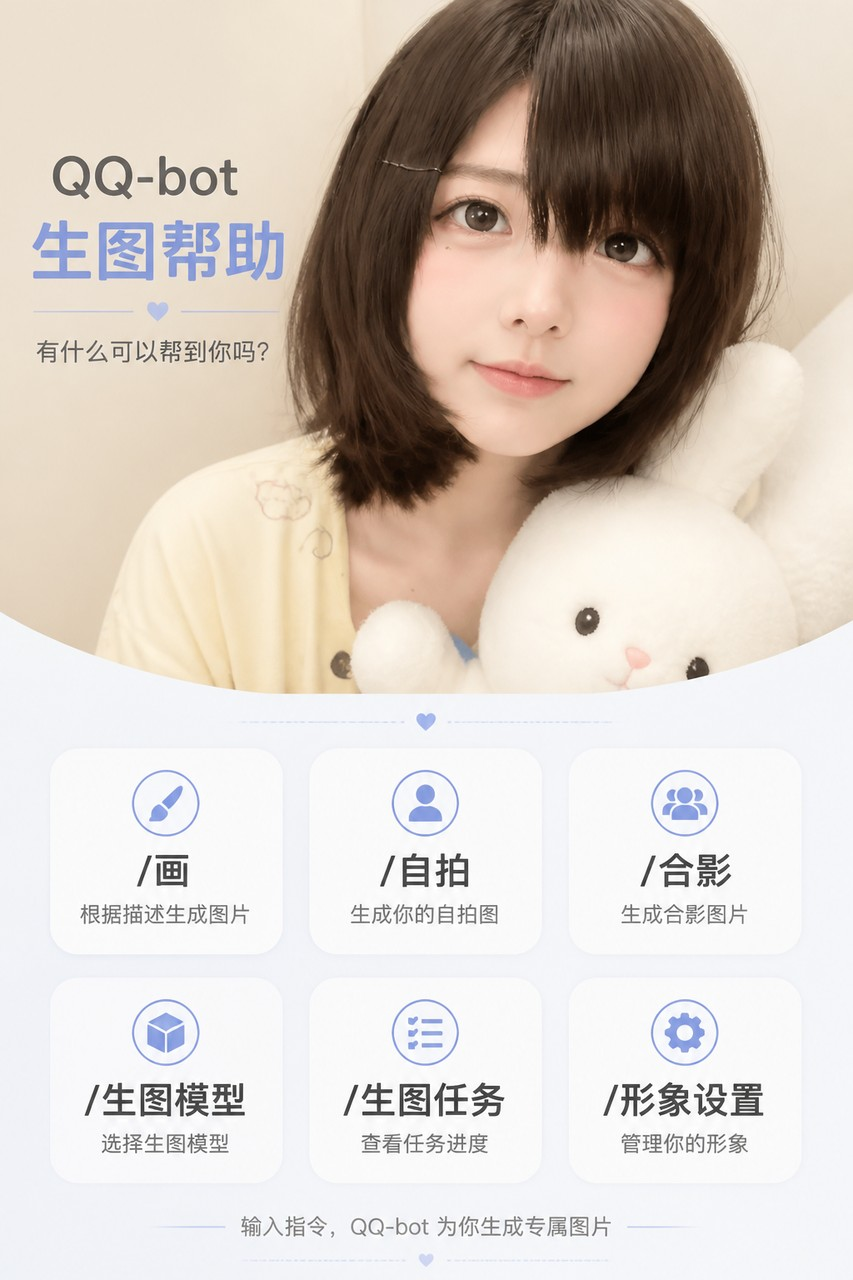
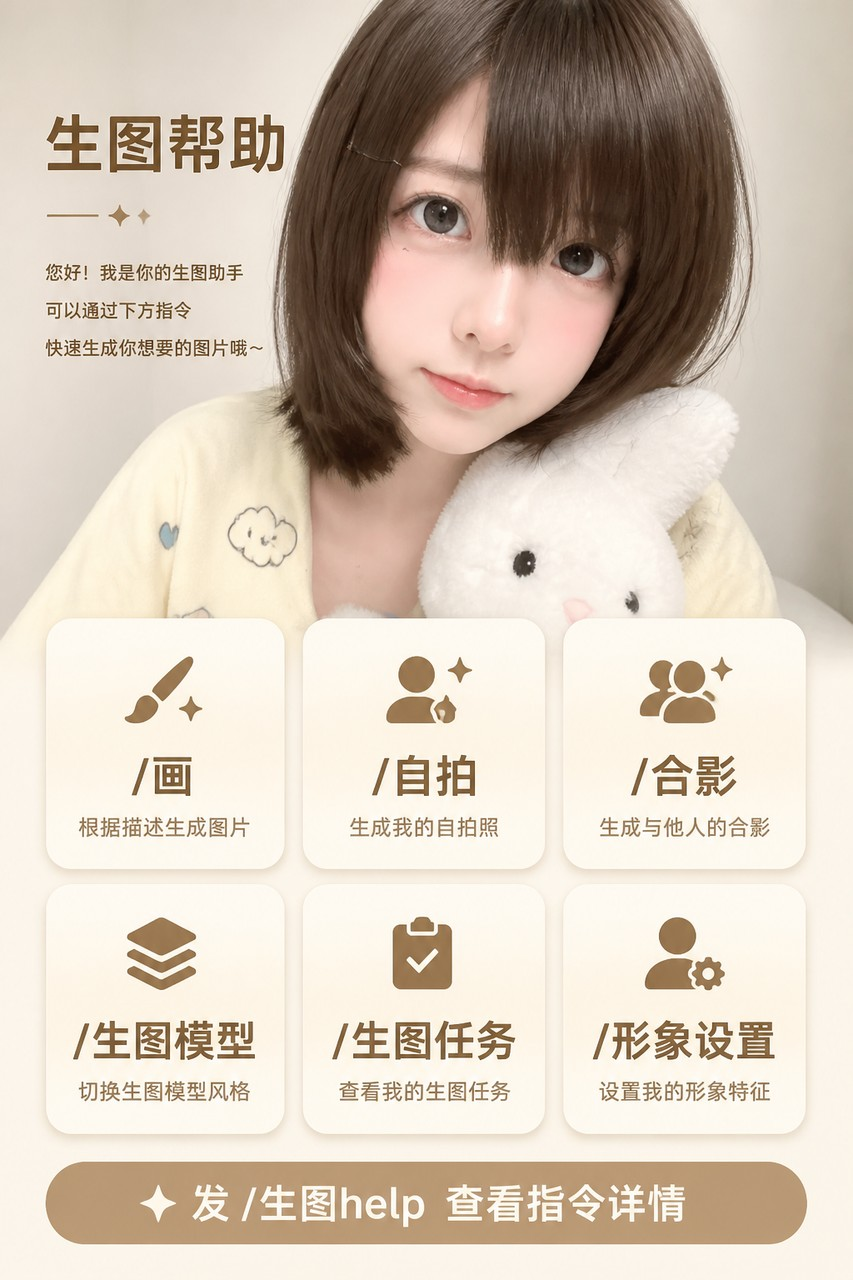
feat: split help image vs text; regen poster without QQ-bot label
- /生图帮助 image-only; /生图help detailed text
- Footer copy: 发 /生图help 查看指令详情; drop English QQ-bot wording
- Ship regenerated assets/help_poster; bump 1.1.9

diff --git a/main.py b/main.py
@@ -3095,14 +3095,18 @@ class SelfieImagePlugin(Star):
 
     @filter.command("生图帮助")
     async def cmd_help(self, event: AstrMessageEvent) -> AsyncGenerator[Any, None]:
-        text = self._help_text_body()
+        """仅发帮助图；详细文字见 /生图help。"""
         help_path = self._resolve_help_image_path()
         if help_path:
             yield event.chain_result([self._create_image_component(help_path)])
-            # Keep a short caption under the poster; full command list still available as text.
-            yield event.plain_result(text)
             return
-        yield event.plain_result(text)
+        # 无图时退回简短提示，避免空白
+        yield event.plain_result("帮助图暂不可用。发 /生图help 看文字说明。")
+
+    @filter.command("生图help")
+    async def cmd_help_text(self, event: AstrMessageEvent) -> AsyncGenerator[Any, None]:
+        """详细文字指令说明。"""
+        yield event.plain_result(self._help_text_body())
 
     def _help_text_body(self) -> str:
         return "\n".join(
@@ -3132,6 +3136,8 @@ class SelfieImagePlugin(Star):
                 "预设：/预设　列表；管理员可 /预设添加 名称:内容、/预设删除 名称",
                 "",
                 "说明：一次可写数量表示连出几轮；图好了会直接发过来，也可用 /生图任务 查进度。",
+                "· /生图帮助　只看图卡",
+                "· /生图help　看本页完整说明",
                 f"管理页：{'已开' if self.config.web_enable else '未开'}　http://{self.config.web_host}:{self.config.web_port}",
                 "也可在 AstrBot 插件页打开内嵌管理（用后台登录即可，不必再输 Web 口令）。",
             ]

diff --git a/tests/test_core.py b/tests/test_core.py
@@ -3038,7 +3038,7 @@ class AstrBotSmokeContractTests(unittest.TestCase):
 
         self.assertTrue(hasattr(plugin_main, "SelfieImagePlugin"))
         # command handlers exist
-        for name in ("cmd_help", "cmd_draw", "cmd_image_model", "cmd_image_tasks", "cmd_image_task_cancel"):
+        for name in ("cmd_help", "cmd_help_text", "cmd_draw", "cmd_image_model", "cmd_image_tasks", "cmd_image_task_cancel"):
             self.assertTrue(hasattr(plugin_main.SelfieImagePlugin, name), name)
 
     def test_help_uses_shipped_static_poster_only(self) -> None:
@@ -3055,7 +3055,13 @@ class AstrBotSmokeContractTests(unittest.TestCase):
         self.assertIn("assets", main_src)
         self.assertIn("help_poster.png", main_src)
         self.assertIn("_bundled_help_poster_path", main_src)
-        self.assertIn('async def cmd_help', main_src)
+        self.assertIn("async def cmd_help", main_src)
+        self.assertIn('@filter.command("生图help")', main_src)
+        self.assertIn("async def cmd_help_text", main_src)
+        # image-only path must not auto-append full help text in cmd_help body
+        help_fn = main_src.split("async def cmd_help", 1)[1].split("async def cmd_help_text", 1)[0]
+        self.assertNotIn("_help_text_body()", help_fn)
+        self.assertIn("chain_result", help_fn)
 
     def test_selfie_prompt_requires_eye_contact_when_facing_camera(self) -> None:
         from astrbot_plugin_selfie_image.persona import PersonaManager

diff --git a/constants.py b/constants.py
@@ -4,7 +4,7 @@ PLUGIN_NAME = "astrbot_plugin_selfie_image"
 LEGACY_PLUGIN_NAME = "astrbot_plugin_aicat"
 PLUGIN_DISPLAY_NAME = "Selfie Image 生图自拍"
 PLUGIN_AUTHOR = "Selfie Image"
-PLUGIN_VERSION = "1.1.8"
+PLUGIN_VERSION = "1.1.9"
 PLUGIN_CONFIG_FILENAME = "selfie_image_config.json"
 LEGACY_CONFIG_FILENAME = "aicat_config.json"
 

diff --git a/docs/HELP_POSTER_PROMPT.md b/docs/HELP_POSTER_PROMPT.md
@@ -1,38 +1,42 @@
 # Help poster generation notes (dev-time only; asset is shipped)
 
 ## Runtime
-`/生图帮助` only reads `assets/help_poster.png` (or `.jpg`). **No live generation.**
+- `/生图帮助` → **image only** (`assets/help_poster.png` / `.jpg`)
+- `/生图help` → **detailed text**
+- **No live generation** of the poster
 
 ## Regenerate (developer machine)
 Channel: prioritized test model (e.g. 糖心/gpt-image-2)  
-Reference: current persona image (prefer raw persona webp over cropped logo)  
+Reference: current persona image (prefer raw persona webp)  
 Aspect: vertical `2:3`
 
 ### Prompt principles
-- **Identity lock**: same face/hair/skin as reference; no anime/chibi/2D restyle
-- **Look**: soft realistic illustration / polished photo-poster, natural light
-- **Eye contact**: if facing camera, must look into the lens; fix distracted/off-camera gaze without changing identity
-- **Layout**: character guide + Chinese command cards (`/画 /自拍 /合影 /生图模型 /生图任务 /形象设置`)
-- Clean whitespace, no watermarks/brands
+- Identity lock + eye contact into lens; no anime restyle
+- Keep current card layout for commands
+- **Do not** put English words like `QQ-bot` / `QQ bot` / brand names on the poster
+- Footer line (Chinese only): `发 /生图help 查看指令详情`
 
 ### Prompt (English, used for gpt-image)
 ```
-Create one clean vertical QQ-bot help poster.
+Create one clean vertical help poster for a Chinese chat bot image plugin.
+Keep the same overall layout as a polished photo-poster (character + command cards).
 
 IDENTITY (strict):
-- Same person as the reference photo: face shape, eyes, nose, lips, skin, hair color/length/curl, overall likeness.
-- Do NOT anime / chibi / 2D cartoon restyle. Soft realistic photo-poster look, natural light.
-- EYE CONTACT: she is facing the camera and MUST look directly into the lens with a clear, friendly focus.
-  If the reference looks distracted or off-camera, correct only the gaze so she engages the viewer; keep identity unchanged.
-  Natural soft smile, present and attentive — not vacant, not looking away.
+- Same person as the reference photo: face, hair, skin, likeness.
+- Soft realistic photo-poster look, natural light. No anime / chibi / 2D cartoon.
+- EYE CONTACT: look directly into the camera lens, friendly and focused.
+  If the reference gaze is distracted, fix only the eyes to engage the viewer.
 
-LAYOUT:
-- Upper/mid: half-body or 3/4 of the character as a friendly guide, eye contact with camera.
-- Lower/side: neat Chinese command cards, high readability on mobile:
+LAYOUT (keep structure, clean Chinese text only):
+- Upper/mid: half-body or 3/4 guide character looking at camera.
+- Mid/lower: neat Chinese command cards (high mobile readability):
   /画   /自拍   /合影
   /生图模型   /生图任务   /形象设置
-- Optional small subtitle: 生图帮助
-- Whitespace, minimal decor, no watermarks, no real brand logos.
+- Bottom footer, single clear line in Chinese (must appear, legible):
+  发 /生图help 查看指令详情
+- Optional small title only in Chinese if needed: 生图帮助
+- NO English labels. Especially do NOT write: QQ-bot, QQ bot, bot, Selfie Image, English slogans.
+- No watermarks, no real brand logos, minimal decor, whitespace.
 
-Use the reference only for identity and appearance fidelity.
+Use the reference only for identity fidelity.
 ```

diff --git a/README.md b/README.md
@@ -1,10 +1,12 @@
 # AstrBot Selfie Image 生图自拍
 
-当前版本 `1.1.8`，要求 AstrBot `>=4.13.0,<5`。
+当前版本 `1.1.9`，要求 AstrBot `>=4.13.0,<5`。
 
 这是 AstrBot 生图自拍插件，包含生图、参考图图生图、AI 自拍、LLM 工具调用和 Flask Web / 内嵌 Dashboard 管理页。
 
-`/生图帮助` 会发送仓库内预生成的帮助图（`assets/help_poster.png`）与指令文本；**不会**在运行时再调渠道画帮助图。
+- `/生图帮助`：只发仓库预生成的帮助图（`assets/help_poster.png`）
+- `/生图help`：详细文字指令
+- **不会**在运行时再调渠道画帮助图
 
 前端与帮助图方案见 [`docs/UI_AND_HELP_IMAGE_PLAN.md`](docs/UI_AND_HELP_IMAGE_PLAN.md)。
 

diff --git a/docs/UI_AND_HELP_IMAGE_PLAN.md b/docs/UI_AND_HELP_IMAGE_PLAN.md
@@ -12,7 +12,8 @@
 |----|------|
 | `logo.png` | 由当前形象参考图中心偏上裁 512×512 |
 | `assets/help_poster.png` | 开发时用测试渠道+**原形象图**预生成；提示词强调 **禁止二次元化**、锁脸锁发型（见 `HELP_POSTER_PROMPT.md`） |
-| `/生图帮助` | 优先发送仓库静态帮助图 + 文本指令列表；**无**「刷新图/运行时生成」 |
+| `/生图帮助` | 只发仓库静态帮助图（无附带长文） |
+| `/生图help` | 详细文字指令 |
 
 路径优先级：`assets/help_poster.png`（主）→ 根目录 `help_poster.png`（兼容）。
 
